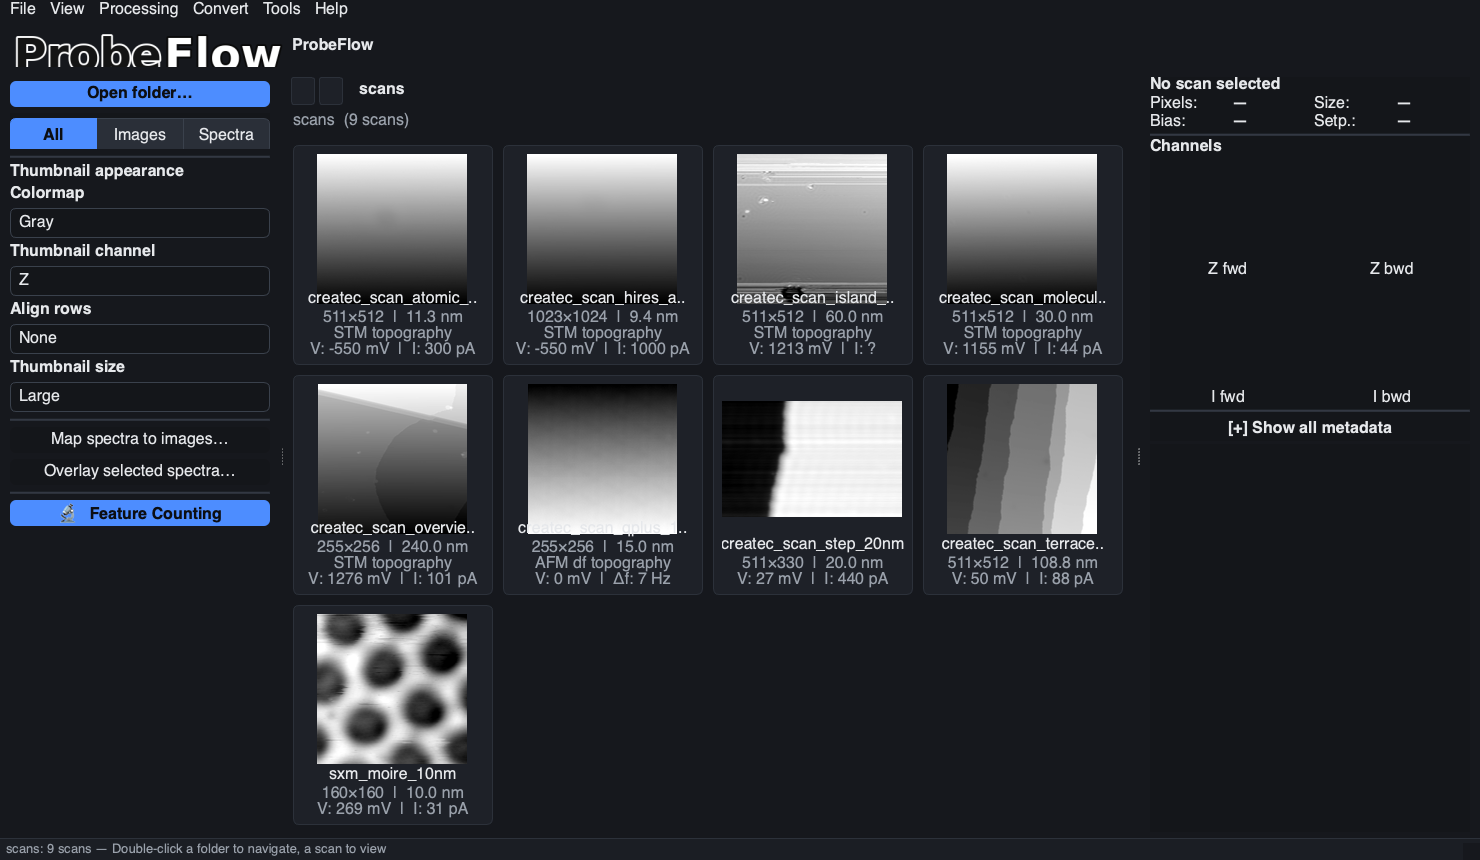
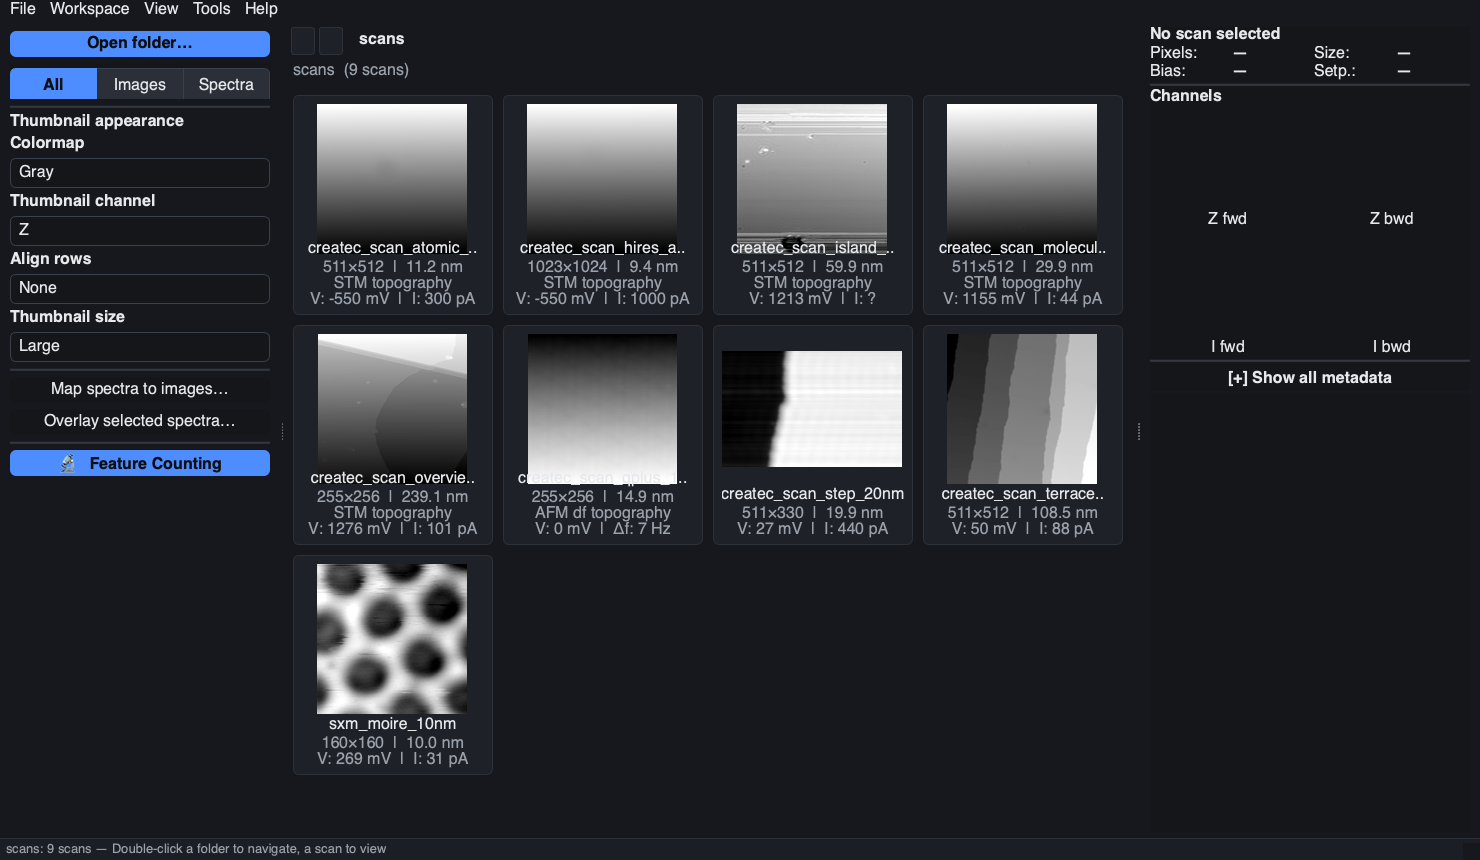
Regroup main-window menus into Workspace/View/Tools; remove vestigial navbar
The menu bar had grown organically: the five workspace modes were spread
over three menus (Browse under View, Convert under its own menu with a
redundant "Batch convert folder..." doing the same thing, the rest under
Tools) while the Ctrl+1..5 shortcuts implied a single list; a top-level
"Processing" menu contained only "Align rows", which is a thumbnail
display setting; and four permanently disabled placeholder actions read
as broken.

Now: a single Workspace menu holds the mode pages (Browse Ctrl+1,
Convert Ctrl+2, TV denoise Ctrl+4, Survey Ctrl+Shift+S, Developer tools
Ctrl+5); Feature Counting is a plain action under Tools (Ctrl+3) since it
opens a floating window rather than switching pages; "Align rows" lives
under View as "Thumbnail row alignment" next to the other thumbnail
settings; the placeholders, the Convert menu, and the now-unreachable
"defs"/"features" branches of _switch_mode are gone.

The Navbar had become a 50px logo strip: its theme/about signals were
never emitted, its button list was always empty (so _apply_nav_theme
styled nothing), and its font-size actions were never populated. Delete
gui/navbar.py with its compat re-exports, NAVBAR_* constants, and the
orphaned #navBtn QSS; the main window reclaims the vertical space.

Docs screenshots regenerated via scripts/generate_gui_screenshots.py.

diff --git a/probeflow/gui/app.py b/probeflow/gui/app.py
@@ -37,7 +37,6 @@ from PySide6.QtWidgets import (
     QStatusBar, QTableWidget, QTableWidgetItem, QVBoxLayout, QWidget,
 )
 from probeflow.gui.utils import _open_url
-from probeflow.gui.navbar import Navbar
 from probeflow.gui.features.tv import (
     TVPanel,
     TVSidebar,
@@ -284,12 +283,6 @@ class ProbeFlowWindow(QMainWindow):
         v_lay.setContentsMargins(0, 0, 0, 0)
         v_lay.setSpacing(0)
 
-        self._navbar = Navbar(self._dark, self._gui_font_size)
-        self._navbar.theme_toggle_clicked.connect(self._toggle_theme)
-        self._navbar.font_size_changed.connect(self._on_gui_font_size_changed)
-        self._navbar.about_clicked.connect(self._show_about)
-        v_lay.addWidget(self._navbar)
-
         # Body splitter
         self._splitter = QSplitter(Qt.Horizontal)
         self._splitter.setHandleWidth(5)
@@ -469,16 +462,6 @@ class ProbeFlowWindow(QMainWindow):
             "Use this when the STM has written new scans while ProbeFlow is open.")
         refresh_action.triggered.connect(lambda: self._grid.refresh())
         file_menu.addAction(refresh_action)
-        recent_action = QAction("Open recent", self)
-        recent_action.setEnabled(False)
-        file_menu.addAction(recent_action)
-        file_menu.addSeparator()
-        export_image_action = QAction("Export image...", self)
-        export_image_action.setEnabled(False)
-        file_menu.addAction(export_image_action)
-        export_processed_action = QAction("Export processed image...", self)
-        export_processed_action.setEnabled(False)
-        file_menu.addAction(export_processed_action)
         file_menu.addSeparator()
         restart_action = QAction("Restart ProbeFlow", self)
         restart_action.setShortcut(QKeySequence("Ctrl+Shift+R"))
@@ -493,9 +476,25 @@ class ProbeFlowWindow(QMainWindow):
         quit_action.triggered.connect(self.close)
         file_menu.addAction(quit_action)
 
+        # All main-window workspaces live in one menu so the app's structure is
+        # visible at a glance; Ctrl+1..5 step through them in menu order.
+        # Feature Counting is deliberately NOT here — it opens as a floating
+        # tool window (Tools menu), not a workspace page.
+        workspace_menu = menu_bar.addMenu("Workspace")
+        _mode_action(workspace_menu, "Browse", "browse", "Ctrl+1")
+        _mode_action(workspace_menu, "Convert Createc .dat to .sxm", "convert", "Ctrl+2")
+        _mode_action(workspace_menu, "TV denoise", "tv", "Ctrl+4")
+        survey_action = _mode_action(
+            workspace_menu, "Survey (ScanFlow campaign)", "survey", "Ctrl+Shift+S"
+        )
+        if not self._survey_available:
+            survey_action.setEnabled(False)
+            survey_action.setToolTip(
+                "Survey mode requires the optional `scanflow` dependency."
+            )
+        _mode_action(workspace_menu, "Developer tools", "dev", "Ctrl+5")
+
         view_menu = menu_bar.addMenu("View")
-        _mode_action(view_menu, "Browse", "browse", "Ctrl+1")
-        view_menu.addSeparator()
         reset_layout_action = QAction("Reset window layout", self)
         reset_layout_action.triggered.connect(self._reset_window_layout)
         view_menu.addAction(reset_layout_action)
@@ -545,9 +544,10 @@ class ProbeFlowWindow(QMainWindow):
             self._thumbnail_channel_action_group.addAction(action)
             self._thumbnail_channel_actions[label] = action
             channel_menu.addAction(action)
-
-        processing_menu = menu_bar.addMenu("Processing")
-        align_menu = processing_menu.addMenu("Align rows")
+        # Row alignment is a thumbnail *display* setting like colourmap and
+        # channel, so it lives with them here (it used to be a one-item
+        # top-level "Processing" menu, which wrongly implied image processing).
+        align_menu = view_menu.addMenu("Thumbnail row alignment")
         for label in ("None", "Mean", "Median"):
             action = QAction(label, self)
             action.setCheckable(True)
@@ -558,33 +558,20 @@ class ProbeFlowWindow(QMainWindow):
             self._thumbnail_align_actions[label] = action
             align_menu.addAction(action)
 
-        convert_menu = menu_bar.addMenu("Convert")
-        _mode_action(convert_menu, "Convert Createc .dat to .sxm...", "convert", "Ctrl+2")
-        batch_convert_action = QAction("Batch convert folder...", self)
-        batch_convert_action.triggered.connect(lambda: self._switch_mode("convert"))
-        convert_menu.addAction(batch_convert_action)
-
         tools_menu = menu_bar.addMenu("Tools")
+        # Feature Counting opens a floating window (not a workspace page), so
+        # it is a plain action here rather than a checkable mode entry.
+        fc_action = QAction("Feature Counting…", self)
+        fc_action.setShortcut(QKeySequence("Ctrl+3"))
+        fc_action.setToolTip(
+            "Open the floating Feature Counting window — segmentation, "
+            "template matching, classification and lattice extraction."
+        )
+        fc_action.triggered.connect(self._open_fc_window)
+        tools_menu.addAction(fc_action)
         map_action = QAction("Map Spectra to Images...", self)
         map_action.triggered.connect(self._on_map_spectra)
         tools_menu.addAction(map_action)
-        tools_menu.addSeparator()
-        _mode_action(tools_menu, "Feature Counting…", "features", "Ctrl+3")
-        _mode_action(tools_menu, "TV denoise", "tv", "Ctrl+4")
-        tools_menu.addSeparator()
-        survey_action = _mode_action(
-            tools_menu, "Survey (ScanFlow campaign)", "survey", "Ctrl+Shift+S"
-        )
-        if not self._survey_available:
-            survey_action.setEnabled(False)
-            survey_action.setToolTip(
-                "Survey mode requires the optional `scanflow` dependency."
-            )
-        tools_menu.addSeparator()
-        _mode_action(tools_menu, "Developer tools", "dev", "Ctrl+5")
-        prefs_action = QAction("Preferences...", self)
-        prefs_action.setEnabled(False)
-        tools_menu.addAction(prefs_action)
 
         help_menu = menu_bar.addMenu("Help")
         definitions_action = QAction("Definitions", self)
@@ -736,7 +723,6 @@ class ProbeFlowWindow(QMainWindow):
             return
         self._theme_name = name
         self._dark = theme_is_dark(name)
-        self._navbar.set_dark(self._dark)
         self._apply_theme()
         self._sync_menu_actions()
 
@@ -799,18 +785,6 @@ class ProbeFlowWindow(QMainWindow):
 
     # ── Mode switching ─────────────────────────────────────────────────────────
     def _switch_mode(self, mode: str):
-        if mode == "defs":
-            self._show_definitions()
-            self._status_bar.showMessage(
-                "Processing algorithm reference opened in a separate window")
-            self._sync_menu_actions()
-            return
-        if mode == "features":
-            # Feature Counting opens in its dedicated floating window; the
-            # main window keeps whatever mode it is currently showing.
-            self._open_fc_window()
-            self._sync_menu_actions()
-            return
         self._mode = mode
         if mode == "browse":
             self._content_stack.setCurrentIndex(0)
@@ -1604,14 +1578,11 @@ class ProbeFlowWindow(QMainWindow):
 
     # ── Theme ──────────────────────────────────────────────────────────────────
     def _toggle_theme(self):
-        # Quick navbar/keyboard flip between the base dark and light themes.
+        # Quick keyboard flip (Ctrl+Shift+T) between the base dark and light themes.
         self._set_theme("light" if self._dark else "dark")
 
     def _on_gui_font_size_changed(self, label: str):
         self._gui_font_size = normalise_gui_font_size(label)
-        self._navbar.blockSignals(True)
-        self._navbar.set_font_size(self._gui_font_size)
-        self._navbar.blockSignals(False)
         self._apply_theme()
         self._status_bar.showMessage(f"Text size: {self._gui_font_size}")
 

diff --git a/probeflow/gui/styling.py b/probeflow/gui/styling.py
@@ -5,10 +5,6 @@ from __future__ import annotations
 from probeflow.gui.config import GUI_FONT_SIZES, GUI_FONT_DEFAULT
 from probeflow.gui.typography import ui_family
 
-NAVBAR_DARK_BG  = "#3273dc"
-NAVBAR_LIGHT_BG = "#ffffff"
-NAVBAR_H        = 58
-
 # Modern-neutral palette: restrained neutral surfaces, one confident accent, soft
 # selection tints and clear borders.  All keys consumed elsewhere (fg, sep, accent_bg,
 # main_bg, entry_bg, card_bg, …) are preserved; ``surface``/``raised``/``sel_tint``/
@@ -237,7 +233,6 @@ THEMES = {
 }
 
 # Ordered theme presets shown in the picker: (key, label, is_dark).
-# is_dark drives the navbar styling and logo variant.
 THEME_PRESETS: tuple[tuple[str, str, bool], ...] = (
     ("dark",          "Dark",          True),
     ("light",         "Light",         False),
@@ -371,16 +366,6 @@ QToolButton#imageToolMore:checked {{
     background-color: {t['accent_bg']};
     color: {t['accent_fg']};
 }}
-/* Navbar buttons (on the coloured navbar). */
-QPushButton#navBtn {{
-    color: #ffffff;
-    background-color: transparent;
-    border: 1px solid rgba(255,255,255,0.40);
-    border-radius: 6px;
-    padding: 4px 12px;
-}}
-QPushButton#navBtn:hover {{ background-color: rgba(255,255,255,0.18); }}
-
 /* ── Inputs ───────────────────────────────────────────────────────────── */
 QComboBox {{
     background-color: {t['entry_bg']};
@@ -640,7 +625,6 @@ def _build_palette(t: dict):
 
 
 __all__ = [
-    "NAVBAR_DARK_BG", "NAVBAR_LIGHT_BG", "NAVBAR_H",
     "THEMES", "THEME_PRESETS", "theme_is_dark",
     "_sep", "_build_qss", "_build_palette",
 ]

diff --git a/probeflow/gui/__init__.py b/probeflow/gui/__init__.py
@@ -58,9 +58,6 @@ from probeflow.gui.config import (
     save_config,
 )
 from probeflow.gui.styling import (
-    NAVBAR_DARK_BG,
-    NAVBAR_LIGHT_BG,
-    NAVBAR_H,
     THEMES,
     _sep,
     _build_qss,
@@ -103,7 +100,6 @@ _LEGACY_EXPORTS = {
     "EdgeDetectionDialog",
     "FFTViewerDialog",
     "ImageViewerDialog",
-    "Navbar",
     "PeriodicFilterDialog",
     "ProbeFlowWindow",
     "ProcessingControlPanel",
@@ -195,7 +191,6 @@ __all__ = [
     "GUI_FONT_DEFAULT",
     "GUI_FONT_SIZES",
     "ImageViewerDialog",
-    "Navbar",
     "PLANE_NAMES",
     "PeriodicFilterDialog",
     "ProbeFlowWindow",

diff --git a/probeflow/gui/compat.py b/probeflow/gui/compat.py
@@ -3,7 +3,7 @@
 This module used to be ``probeflow.gui._legacy`` and held the main-window
 implementation; classes have since been transplanted into their proper
 subpackages (``app``, ``browse``, ``convert``, ``dialogs``, ``features``,
-``navbar``, ``processing``, ``terminal``).  The remaining purpose of this
+``processing``, ``terminal``).  The remaining purpose of this
 file is to keep the historical ``from probeflow.gui import X`` import surface
 stable while ``gui/__init__.py`` re-exports each name through its
 ``_LEGACY_EXPORTS`` set.
@@ -24,7 +24,6 @@ from __future__ import annotations
 from PySide6.QtWidgets import QFileDialog  # noqa: F401
 
 from probeflow.gui.app import ProbeFlowWindow, main  # noqa: F401
-from probeflow.gui.navbar import Navbar  # noqa: F401
 from probeflow.gui.processing import ProcessingControlPanel  # noqa: F401
 from probeflow.gui.terminal import DeveloperTerminalWidget, _DevSidebar  # noqa: F401
 from probeflow.gui.dialogs import (  # noqa: F401